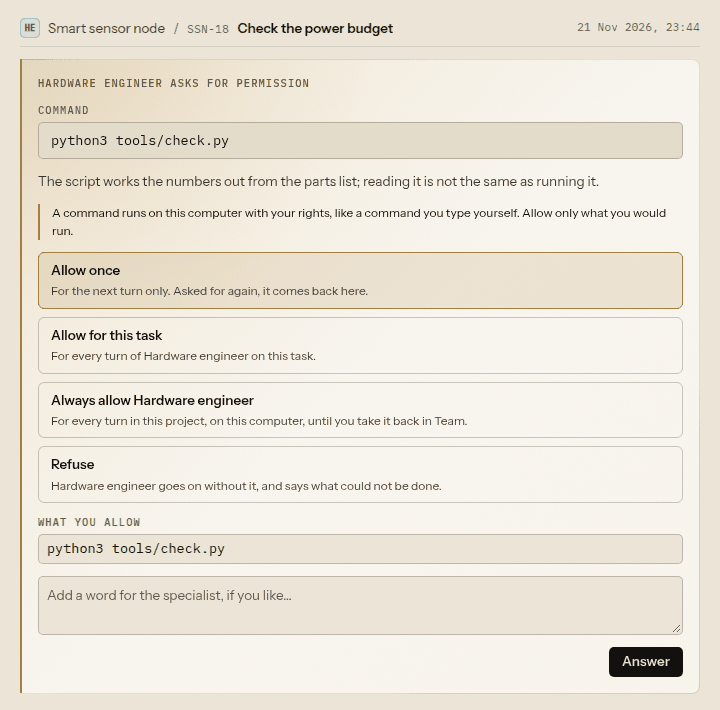
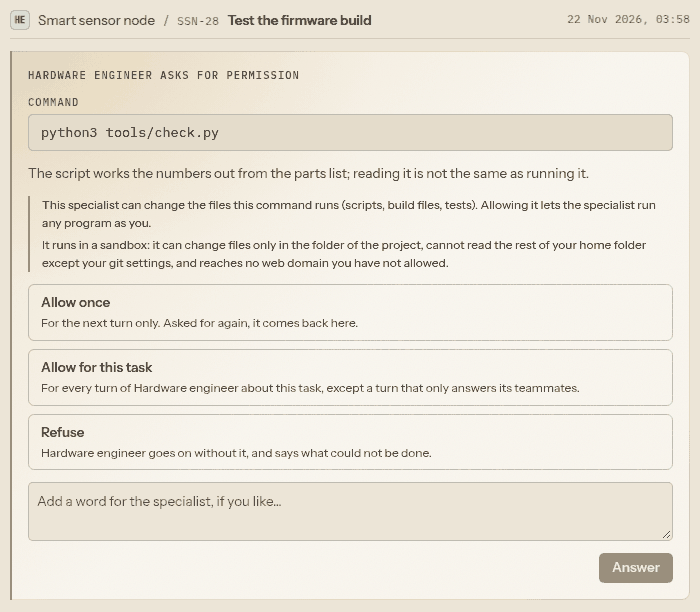
docs(manual): retake the picture of a permission request
The picture still showed the card from before the security review: four
answers, with "Always allow" for a command, and the sentence that a command
runs with your rights. A command can now be allowed once or for the task
only, and the card carries two sentences, about what allowing a command
means and about the sandbox. The picture is retaken from the demo, in the
light theme, and its alt text now says what it shows. The field "What you
allow" appears only after an allowing answer is chosen, so it is not in
the picture; the text of the manual about it stays true.

Changed region(s): [[0.0, 0.0, 0.99, 0.9935], [0.81, 0.031, 0.99, 0.0621], [0.48, 0.9624, 0.54, 0.9935]]

diff --git a/docs/user-manual/work.md b/docs/user-manual/work.md
@@ -99,7 +99,7 @@ to run a command, such as a build or a test, or to read a page on the web, it
 does not work around the rule. It asks you, and its turn ends. The request
 waits in the *Inbox*, next to the questions, the oldest first.
 
-<img alt="The inbox with a request for permission: the command python3 tools/check.py, the reason of the specialist, the sentence that a command runs with your rights, four answers and the field What you allow" src="pictures/permission-request.png">
+<img alt="The inbox with a request for permission: the command python3 tools/check.py, the reason of the specialist, the two sentences about what allowing a command means and about the sandbox, and three answers: Allow once, Allow for this task and Refuse" src="pictures/permission-request.png">
 
 A request says who asks, for which task, and exactly what it wants, in one of
 two kinds: *Command* (one exact command line) or *Web domain*. Under it
